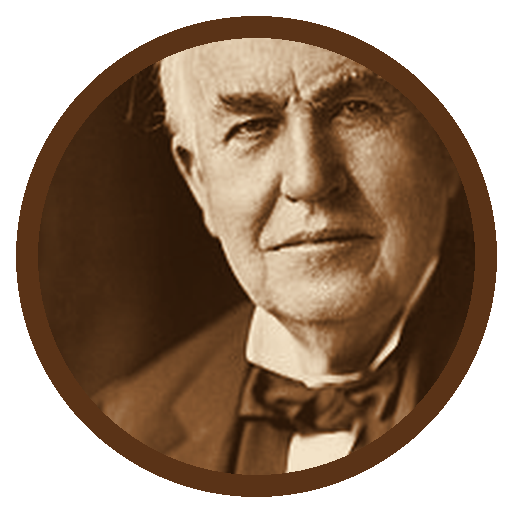
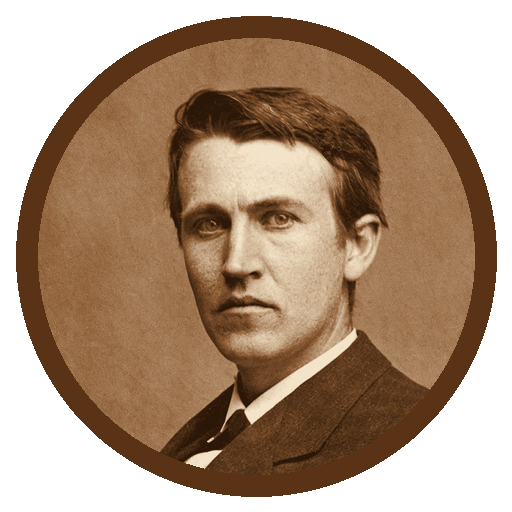
Swap the Edison portrait for a worldwide public domain one, add CC0 licence and Credits
google-ads.png now comes from "Edison and phonograph edit2.jpg" (Levin C. Handy,
1878, PD-old) instead of the Bachrach photo that is public domain only in the US.
README states that the portraits are public domain and the edits are CC0 1.0,
with a Credits table linking every Commons source file. LICENSE holds the CC0 1.0
Universal legal code.

Claude-Session: https://claude.ai/code/session_01UHgEYHWhjfuS7CigFSHoJ3

diff --git a/README.md b/README.md
@@ -18,8 +18,44 @@ new agent needs a new PNG with its slug before its Notion card can show it.
 
 ## Where the images come from
 
-Every portrait starts as the lead image of the person's Wikipedia article
-(cs or en Wikipedia, via the MediaWiki API), then is cropped and toned for this
-set. The originals are historical portraits hosted on Wikimedia Commons; each
-one's licence is on its Commons file page and has not been re-checked file by
-file here. None of the images are AI generated.
+Every portrait is a historical photograph, engraving or lithograph from
+Wikimedia Commons. All of them are in the public domain: the authors died more
+than 70 years ago, or the work is anonymous and old enough. The one exception
+to "worldwide" is Ziegfeld, see the note in the table. None of the images are
+AI generated.
+
+My changes (circle crop, sepia toning, frame) are released under
+[CC0 1.0 Universal](LICENSE): use the icons for anything, no attribution
+needed. CC0 covers only my edits; the underlying portraits were never mine to
+license and stay public domain.
+
+## Credits
+
+Attribution is not legally required for any of these, but here is where each
+one comes from. Licence names are the Commons licence templates.
+
+| Icon | Person | Author | Original on Wikimedia Commons | Licence |
+|---|---|---|---|---|
+| `svatopluk.png` | Svatopluk Čech | Jan Vilímek | [Svatopluk Čech.png](https://commons.wikimedia.org/wiki/File:Svatopluk_%C4%8Cech.png) | PD-old |
+| `agent-tuner.png` | Jan Neruda | Jan Vilímek | [Jan Neruda - Jan Vilímek - České album.jpg](https://commons.wikimedia.org/wiki/File:Jan_Neruda_%E2%80%93_Jan_Vil%C3%ADmek_%E2%80%93_%C4%8Cesk%C3%A9_album.jpg) | PD-old |
+| `archive-batch-listing.png` | František Ladislav Čelakovský | Jan Vilímek | [František Ladislav Čelakovský - Jan Vilímek - České album.jpg](https://commons.wikimedia.org/wiki/File:Franti%C5%A1ek_Ladislav_%C4%8Celakovsk%C3%BD_%E2%80%93_Jan_Vil%C3%ADmek_%E2%80%93_%C4%8Cesk%C3%A9_album.jpg) | PD-old |
+| `archive-researcher.png` | Alois Jirásek | Agence Rol (1921) | [Alois Jirásek by Agence Rol (cropped2).jpg](https://commons.wikimedia.org/wiki/File:Alois_Jir%C3%A1sek_by_Agence_Rol_(cropped2).jpg) | PD France, PD-US-expired |
+| `aukro-messages.png` | Božena Němcová | Jan Vilímek | [Božena Němcová - Jan Vilímek - České album (cropped).jpg](https://commons.wikimedia.org/wiki/File:Bo%C5%BEena_N%C4%9Bmcov%C3%A1_%E2%80%93_Jan_Vil%C3%ADmek_%E2%80%93_%C4%8Cesk%C3%A9_album_(cropped).jpg) | PD-old-70 |
+| `brand-voice-reviewer.png` | Karel Jaromír Erben | Jan Vilímek | [Karel Jaromír Erben (cut).jpg](https://commons.wikimedia.org/wiki/File:Karel_Jarom%C3%ADr_Erben_(cut).jpg) | PD-old-90-expired |
+| `cdv-aukro.png` | Jindřich Eckert | Jindřich Eckert | [Heinrich Eckert 1903 cropped (cropped).jpg](https://commons.wikimedia.org/wiki/File:Heinrich_Eckert_1903_cropped_(cropped).jpg) | PD-old-70-expired |
+| `council.png` | Karel Havlíček Borovský | Jan Vilímek | [Karel Havlíček Borovský - Jan Vilímek - České album (cropped).jpg](https://commons.wikimedia.org/wiki/File:Karel_Havl%C3%AD%C4%8Dek_Borovsk%C3%BD_%E2%80%93_Jan_Vil%C3%ADmek_%E2%80%93_%C4%8Cesk%C3%A9_album_(cropped).jpg) | PD-old-70 |
+| `deep-research.png` | Julius Zeyer | Jan Vilímek (1883) | [Julius Zeyer Vilimek.jpg](https://commons.wikimedia.org/wiki/File:Julius_Zeyer_Vilimek.jpg) | PD-old |
+| `ebay-relist-agent.png` | Antonín Frič | Unknown | [Fric Antonin (restored).jpg](https://commons.wikimedia.org/wiki/File:Fric_Antonin_(restored).jpg) | PD-anon-70-EU |
+| `email-agent.png` | Eliška Krásnohorská | Jan Vilímek | [Eliška Krásnohorská - Jan Vilímek - České album.jpg](https://commons.wikimedia.org/wiki/File:Eli%C5%A1ka_Kr%C3%A1snohorsk%C3%A1_%E2%80%93_Jan_Vil%C3%ADmek_%E2%80%93_%C4%8Cesk%C3%A9_album.jpg) | PD-old |
+| `facebook-ads.png` | P. T. Barnum | Brady-Handy Collection (1855 to 1865) | [P. T. Barnum - 02176a (cropped).jpg](https://commons.wikimedia.org/wiki/File:P._T._Barnum_-_02176a_(cropped).jpg) | PD-Brady-Handy |
+| `fb-group-outreach.png` | Zikmund Winter | Jan Vilímek (1889) | [Zikmund Winter Vilimek.jpg](https://commons.wikimedia.org/wiki/File:Zikmund_Winter_Vilimek.jpg) | PD-old |
+| `genealogy-agent.png` | August Sedláček | Jan Vilímek (1882) | [August Sedlacek Vilimek.jpg](https://commons.wikimedia.org/wiki/File:August_Sedlacek_Vilimek.jpg) | PD-old |
+| `google-ads.png` | Thomas Edison | Levin C. Handy (1878) | [Edison and phonograph edit2.jpg](https://commons.wikimedia.org/wiki/File:Edison_and_phonograph_edit2.jpg) | PD-old |
+| `google-analytics.png` | Bernard Bolzano | Tadeáš Mayer (1846) | [Bernard Bolzano by Taddeo Mayer, 1846.jpg](https://commons.wikimedia.org/wiki/File:Bernard_Bolzano_by_Taddeo_Mayer,_1846.jpg) | PD-old-100 |
+| `linkedin-agent.png` | Ada Lovelace | Antoine Claudet (1843) | [Ada Lovelace daguerreotype by Antoine Claudet 1843 - cropped.png](https://commons.wikimedia.org/wiki/File:Ada_Lovelace_daguerreotype_by_Antoine_Claudet_1843_-_cropped.png) | PD-old-100-expired |
+| `nina-kovar-agent.png` | Florenz Ziegfeld Jr. | Time Inc., photographer not credited | [Florenz-Ziegfeld-1928.jpg](https://commons.wikimedia.org/wiki/File:Florenz-Ziegfeld-1928.jpg) | PD-US-expired. Public domain in the US; anonymous 1928 work. |
+| `pinterest-affiliate.png` | Vojtěch Lanna ml. | Karel Václav Klíč | [Vojtěch Lanna mladší - litografie Karla Václava Klíče.png](https://commons.wikimedia.org/wiki/File:Vojt%C4%9Bch_Lanna_mlad%C5%A1%C3%AD_-_litografie_Karla_V%C3%A1clava_Kl%C3%AD%C4%8De.png) | PD-Art (PD-old-70) |
+| `reklamace-correspondence.png` | Arthur Schopenhauer | Johann Schäfer (1859) | [Arthur Schopenhauer by J Schäfer, 1859b.jpg](https://commons.wikimedia.org/wiki/File:Arthur_Schopenhauer_by_J_Sch%C3%A4fer,_1859b.jpg) | PD-old-100-expired |
+| `search-console-fix.png` | Cyrus West Field | Napoleon Sarony | [CyrusField4.jpg](https://commons.wikimedia.org/wiki/File:CyrusField4.jpg) | PD-old-100 |
+| `sold-sync.png` | Václav Vladivoj Tomek | Jan Vilímek | [Václav Vladivoj Tomek - Jan Vilímek - České album (cropped).jpg](https://commons.wikimedia.org/wiki/File:V%C3%A1clav_Vladivoj_Tomek_%E2%80%93_Jan_Vil%C3%ADmek_%E2%80%93_%C4%8Cesk%C3%A9_album_(cropped).jpg) | PD-old-70 |
+| `webmaster.png` | František Křižík | Ignác Šechtl (1902) | [Krizik.jpg](https://commons.wikimedia.org/wiki/File:Krizik.jpg) | PD-old-100 |
